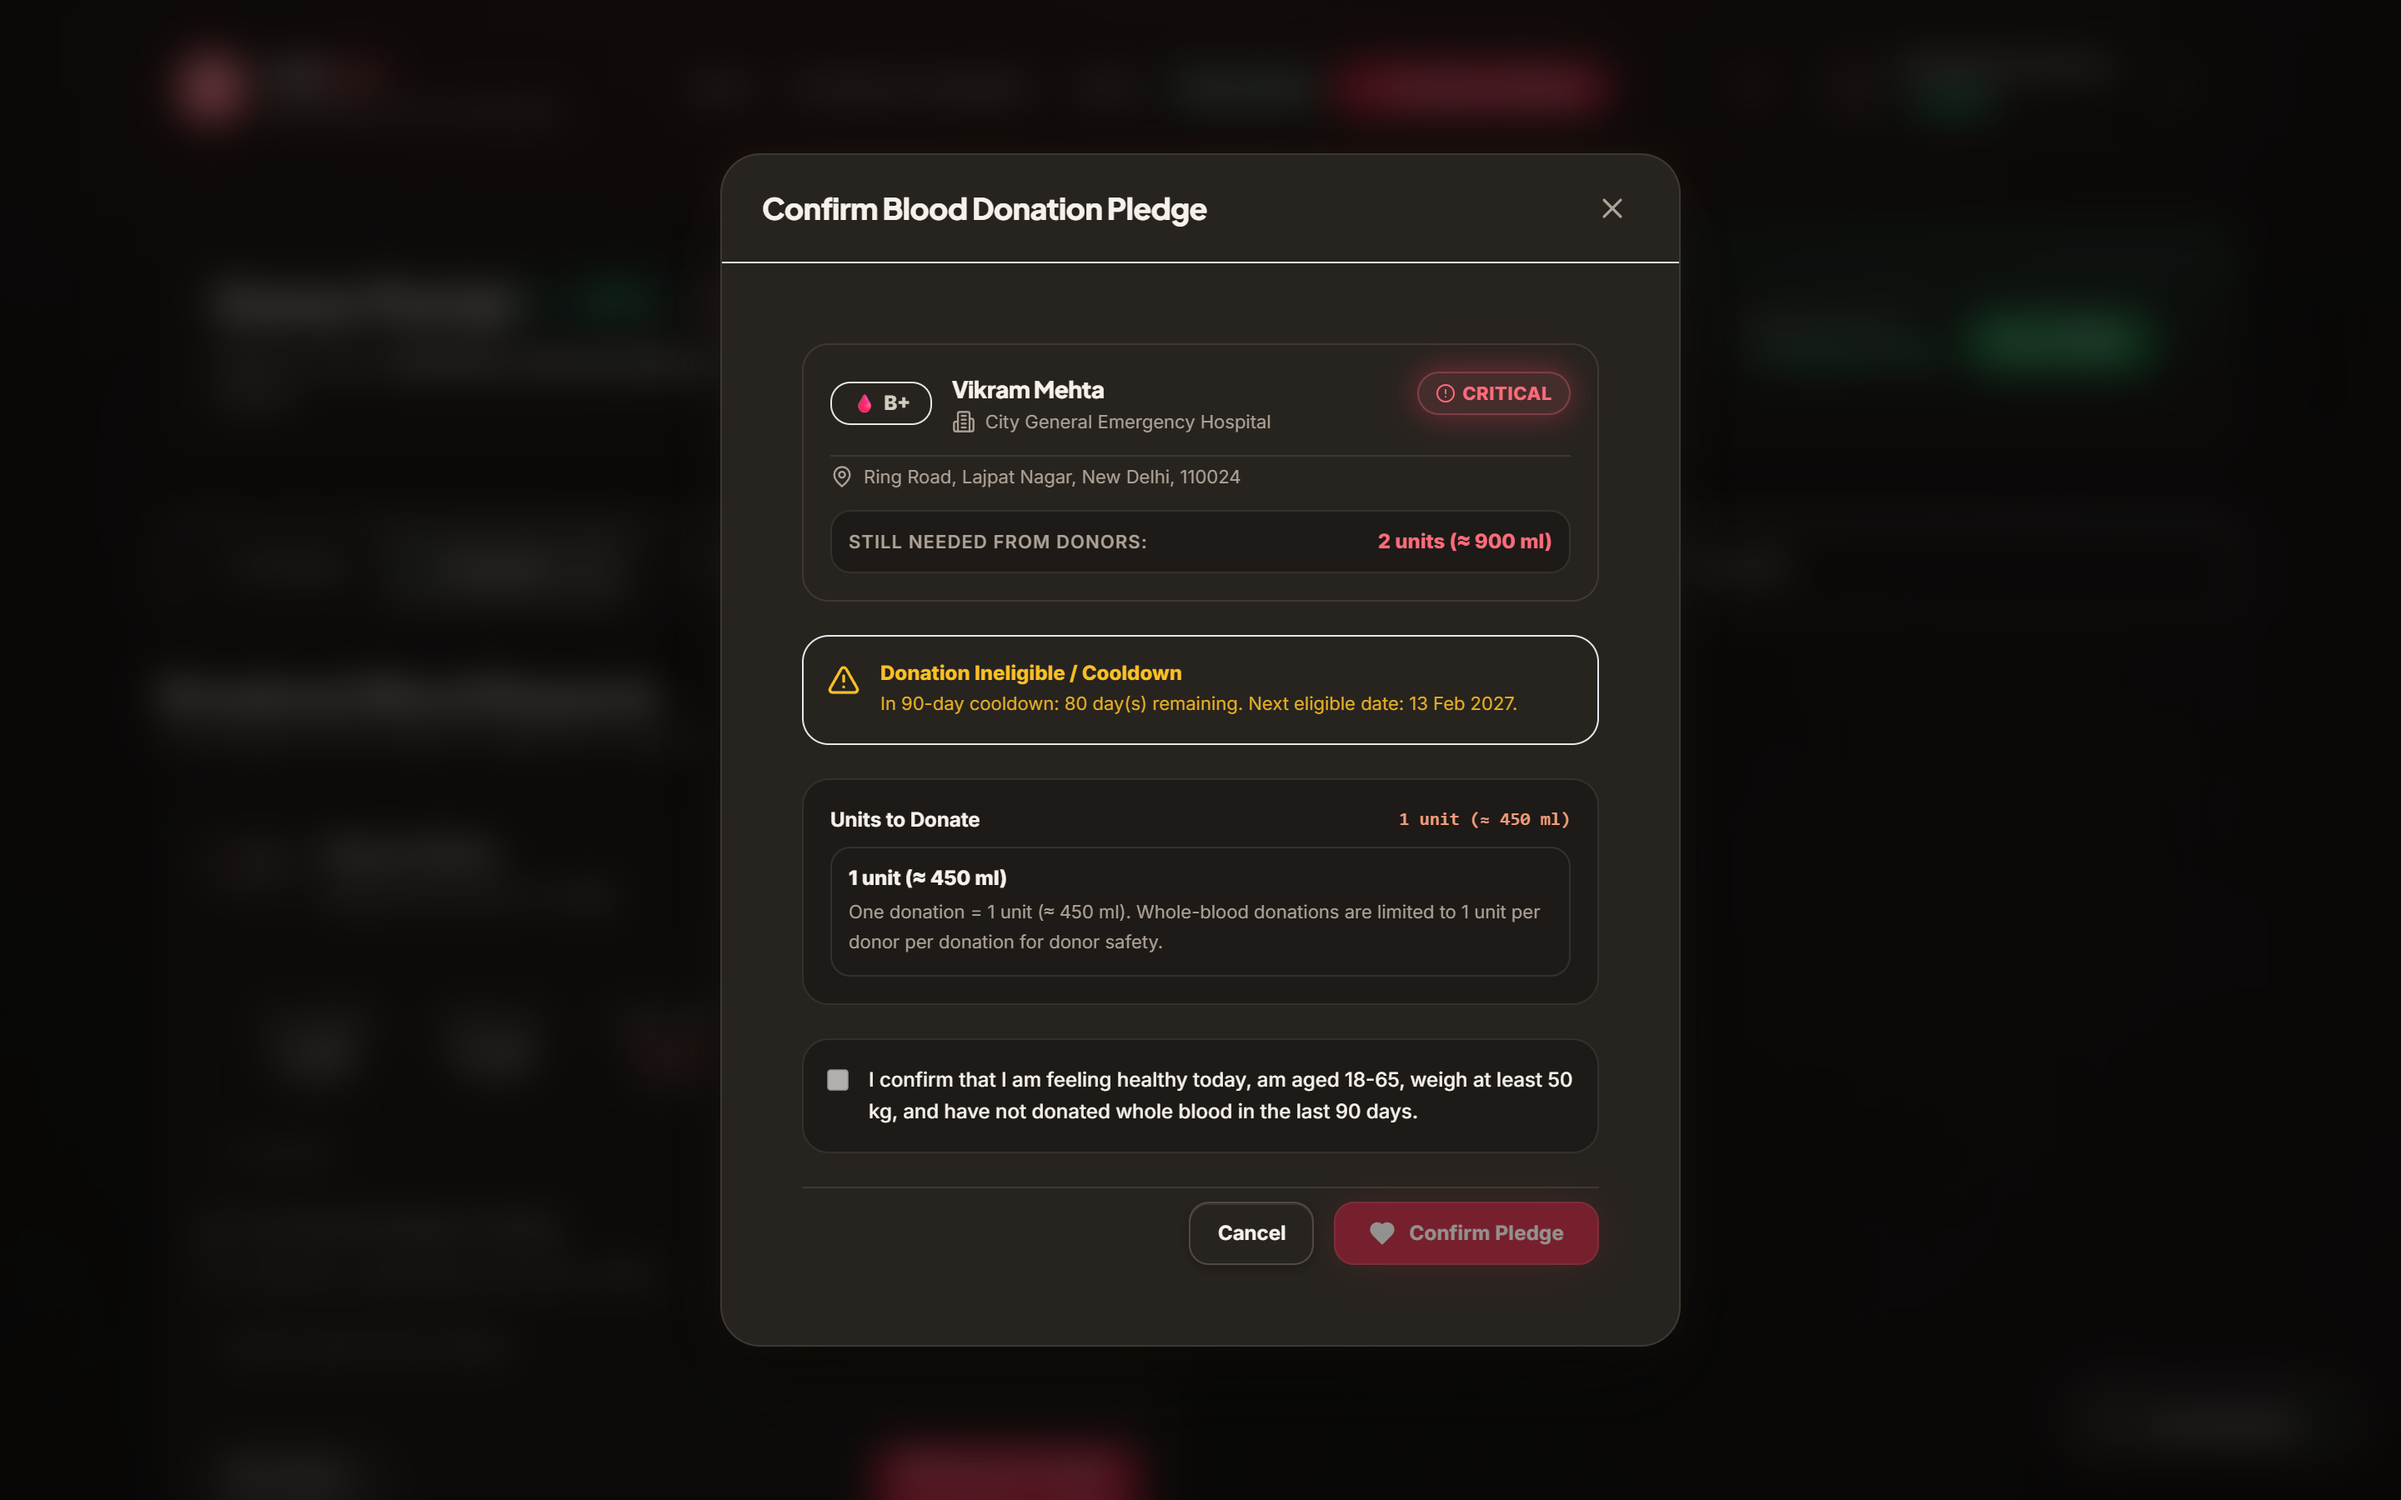
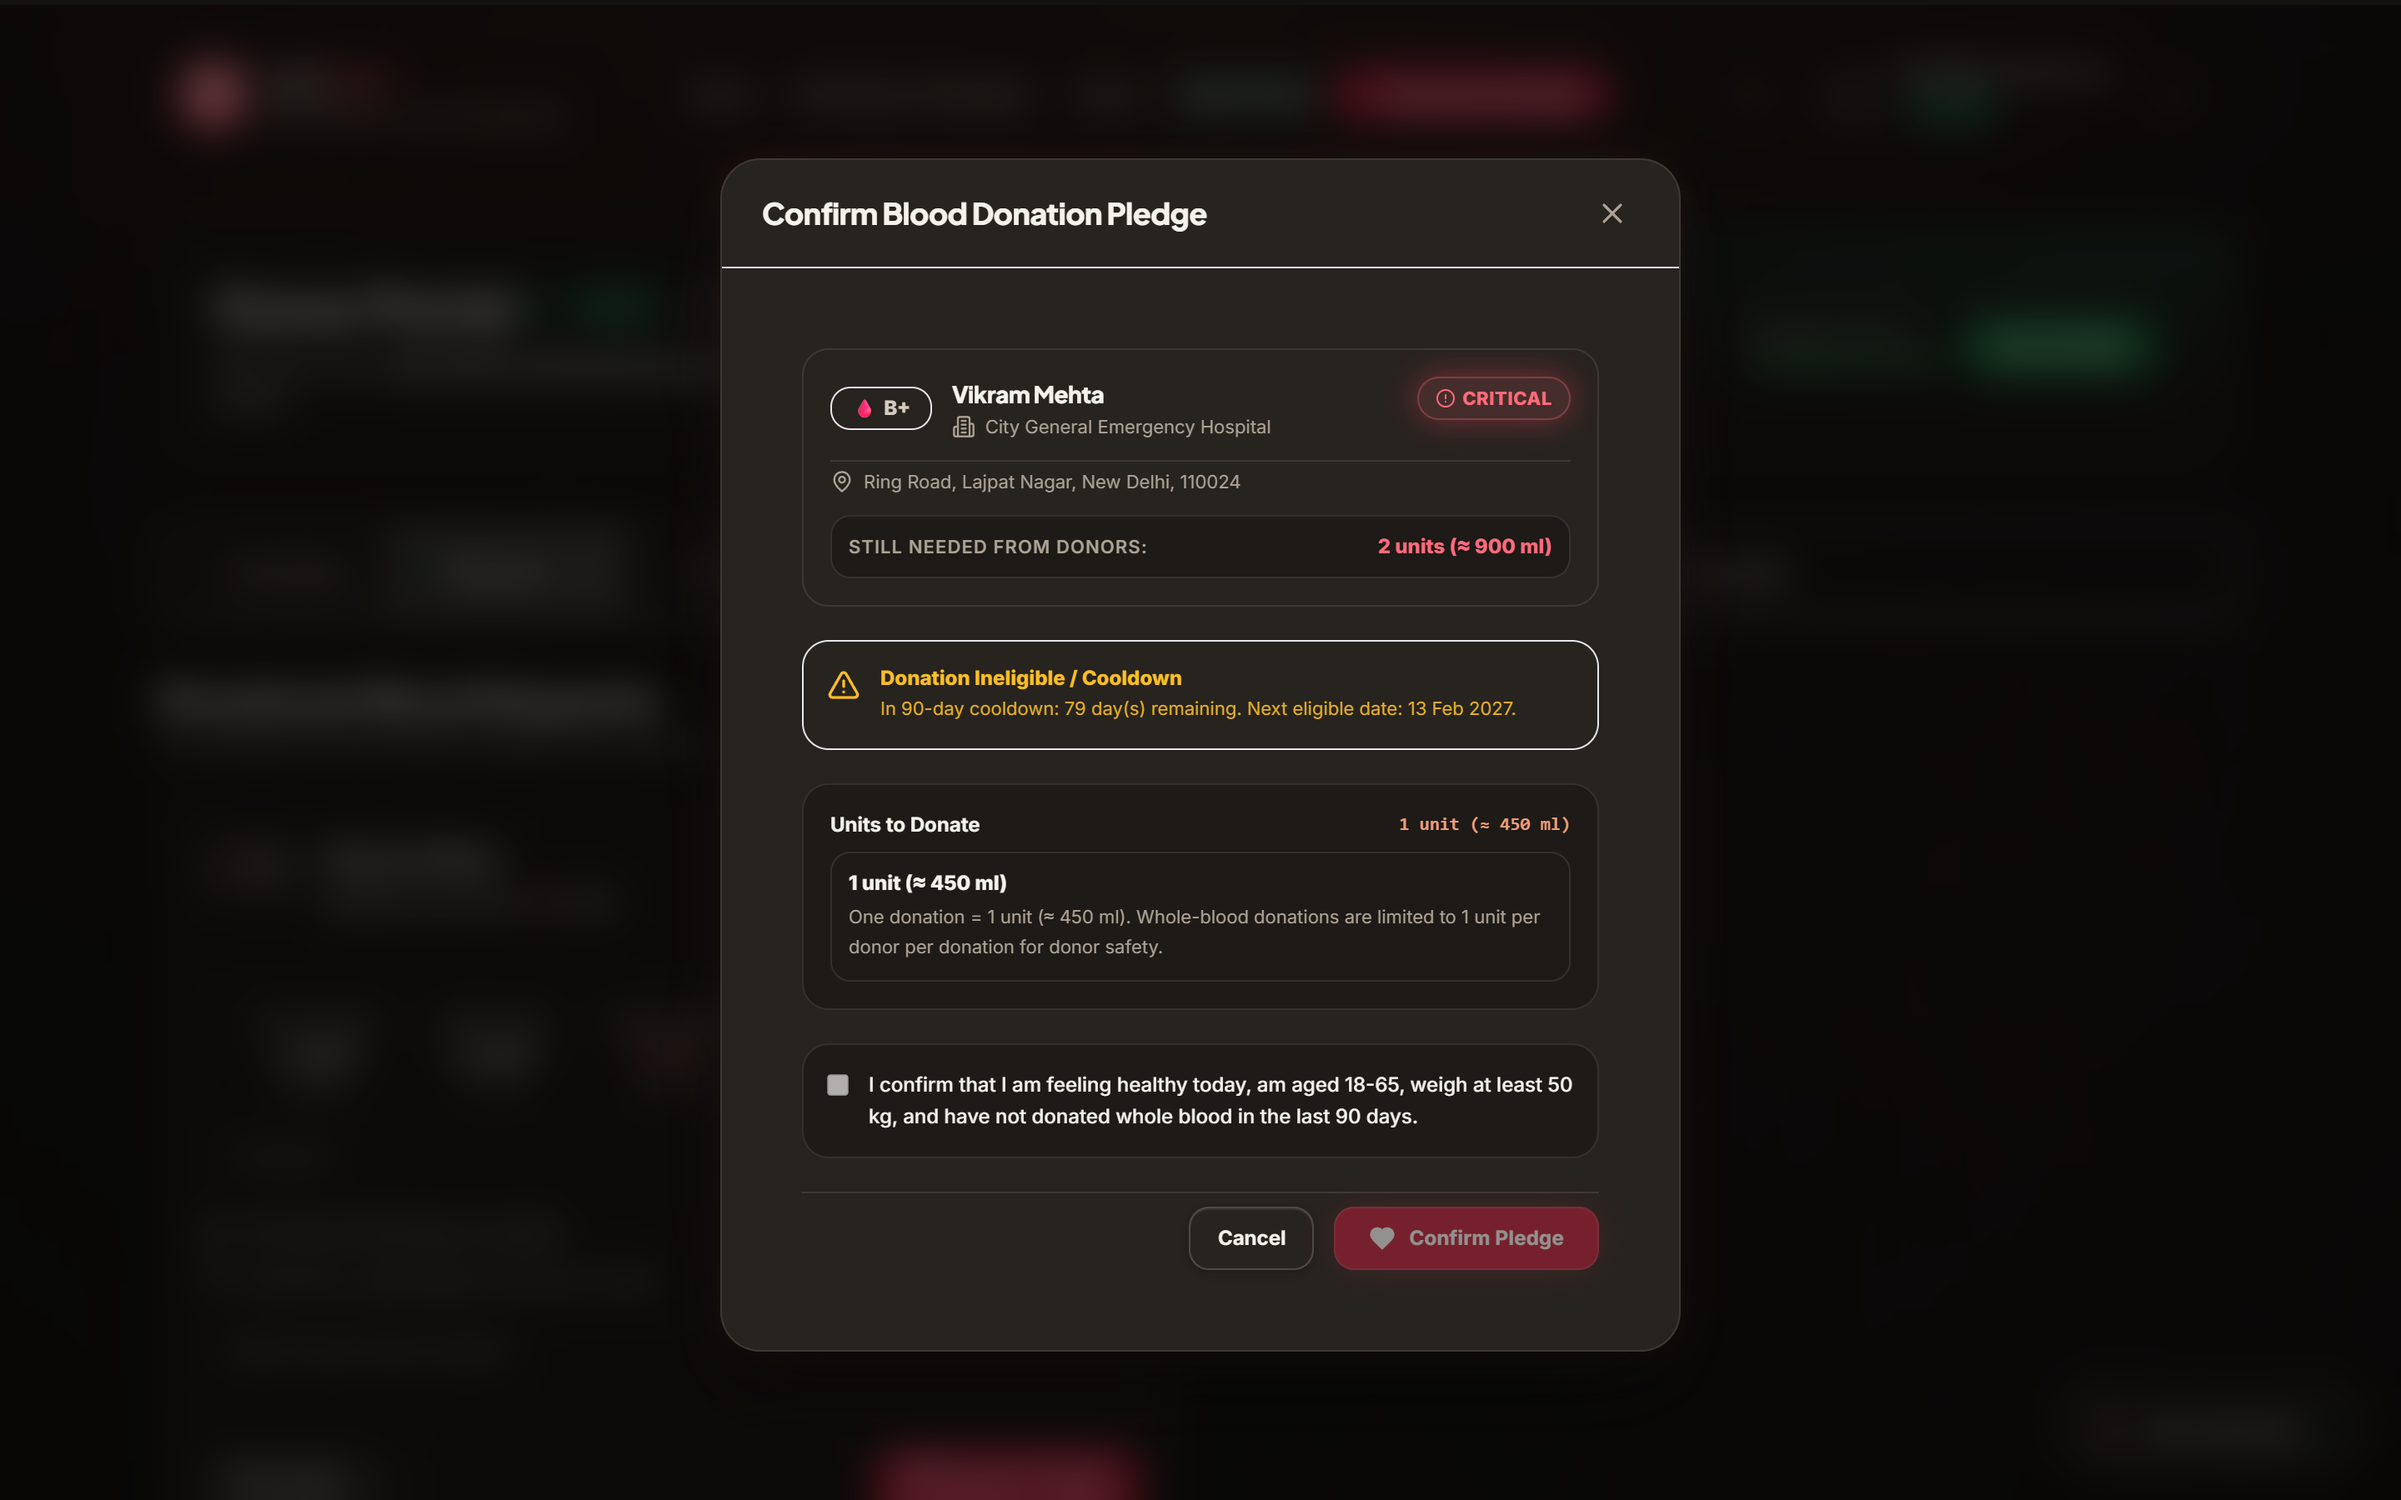
fix(docs): fix README architecture links, screenshot crops, and caption parity

diff --git a/README.md b/README.md
@@ -88,7 +88,7 @@ Interactive captures taken directly from the live running client (`1440×900` `@
       <img src="docs/screenshots/07-donor-overview-dark.png" alt="Donor Portal Overview — Dark Mode" width="100%" />
       <br />
       <strong>Donor Overview &amp; Cooldown Status (Dark)</strong><br />
-      Displays live <code>ONLINE</code> availability, <code>Last Donation: 15 Nov 2026</code> anchored to actual <code>donatedAt</code>, and computed countdown <code>Eligible again on 13 Feb 2027 (80 days left)</code>.
+      Displays live <code>ONLINE</code> availability, <code>Last Donation: 15 Nov 2026</code> anchored to actual <code>donatedAt</code>, and computed countdown <code>Eligible again on 13 Feb 2027 (79 days left)</code>.
     </td>
     <td width="50%" valign="top">
       <img src="docs/screenshots/08-donor-overview-light.png" alt="Donor Portal Overview — Light Mode" width="100%" />
@@ -122,7 +122,7 @@ Interactive captures taken directly from the live running client (`1440×900` `@
       <img src="docs/screenshots/12-track-request-dark.png" alt="Recipient Emergency Request Tracking and Smart Donor Matching" width="100%" />
       <br />
       <strong>Emergency Request Tracker &amp; Match Engine (<code>/individual/track/:id</code>)</strong><br />
-      Real-time 4-stage lifecycle progress bar (Created &rarr; Searching &rarr; Partially Fulfilled &rarr; Fulfilled), unit breakdown bar, pledged donor ledger, and the Smart Donor Matching Engine panel.
+      Real-time 4-stage lifecycle progress bar (Sent to Hospital &rarr; Under Review &rarr; Stock Check &rarr; Donors / Fulfilled), unit breakdown bar, pledged donor section, and ranked Smart Donor Matching Engine candidates (<code>100%</code>, <code>93%</code>).
     </td>
   </tr>
 </table>
@@ -175,13 +175,13 @@ Interactive captures taken directly from the live running client (`1440×900` `@
       <img src="docs/screenshots/19-admin-overview-dark.png" alt="Admin Control Center Overview" width="100%" />
       <br />
       <strong>Admin Overview &amp; Telemetry (<code>/admin/dashboard</code>)</strong><br />
-      Platform KPI cards (total donors, verified hospitals, active emergencies, total requests) and pinned latest Regional AI Narrative Insight.
+      Platform KPI cards (total donors, total requests, fulfillment rate, completed donations) and pinned latest Regional AI Narrative Insight.
     </td>
     <td width="50%" valign="top">
       <img src="docs/screenshots/20-admin-users-hospitals-dark.png" alt="Admin Registered Donors and Hospitals Directory" width="100%" />
       <br />
       <strong>Donors &amp; Hospital Verification Directory (<code>?tab=users</code>)</strong><br />
-      Account governance table tracking donor blood types, last donation records, role badges, and facility approval workflow.
+      Account governance directory listing Registered Donors (10) with blood group pills, contact phone, address, and active standby badges alongside Medical Facilities (2) verification.
     </td>
   </tr>
   <tr>
@@ -189,13 +189,13 @@ Interactive captures taken directly from the live running client (`1440×900` `@
       <img src="docs/screenshots/21-admin-requests-dark.png" alt="Admin Master Blood Requests Directory" width="100%" />
       <br />
       <strong>Master Blood Requests Directory (<code>?tab=requests</code>)</strong><br />
-      Full network audit table of active and fulfilled blood requests with blood group pills, units fulfilled, urgency chips, and hospital locations.
+      Full network audit table displaying patient/facility, blood group pills, units needed, urgency chips, status badges, location, date, and inline status controls.
     </td>
     <td width="50%" valign="top">
       <img src="docs/screenshots/18-admin-ai-insights-dark.png" alt="Admin AI Medical Logistics Insights Tab" width="100%" />
       <br />
       <strong>AI Medical Logistics Insights (<code>?tab=ai-insights</code>)</strong><br />
-      On-demand Gemini synthesis with custom trend prompt input, shortage risk analysis, and historical narrative report cards.
+      On-demand Gemini synthesis with Custom Intelligence Prompt bar, synced KPIs (Hospital Reserve Units, High Risk Blood Groups, Surplus Groups), and strategic recommendations.
     </td>
   </tr>
   <tr>
@@ -228,7 +228,7 @@ Interactive captures taken directly from the live running client (`1440×900` `@
       <img src="docs/screenshots/25-ai-assistant-donor-light.png" alt="Donor AI Assistant Cooldown Response — Light Mode" width="100%" />
       <br />
       <strong>Donor Eligibility AI Assistant (Light)</strong><br />
-      Evaluates 90-day cooldown directly from <code>donatedAt</code> (<code>15 Nov 2026</code> &rarr; next eligible <code>13 Feb 2027</code>, <code>80 days remaining</code>) and links to <code>Profile &amp; Health &rarr;</code>.
+      Evaluates 90-day cooldown directly from <code>donatedAt</code> (<code>15 Nov 2026</code> &rarr; next eligible <code>13 Feb 2027</code>, <code>79 days remaining</code>) and links to <code>Profile &amp; Health &rarr;</code>.
     </td>
   </tr>
 </table>
@@ -316,9 +316,9 @@ LifeLink features a bespoke **"Warm Nocturne + Vital Rose-Crimson + Coral Ember"
 
 ## 🏗 System Architecture
 
-![LifeLink System Architecture Diagram](docs/figures/light/Fig_3.1_System_Architecture_Diagram.png)
+![LifeLink System Architecture Diagram](docs/architecture/system-architecture-light.png)
 
-> High-resolution diagram exports: [Light (Report Print)](docs/figures/light/Fig_3.1_System_Architecture_Diagram.png) • [Dark (Mono Ink)](docs/figures/Fig_3.1_System_Architecture_Diagram.png)
+> High-resolution diagram exports: [Light (Report Print)](docs/architecture/system-architecture-light.png) • [Dark (Mono Ink)](docs/architecture/system-architecture-dark.png)
 
 ---
 
@@ -700,7 +700,7 @@ LifeLink/
 │   └── .env.example
 ├── docs/                            # Documentation & Visual Assets
 │   ├── screenshots/                 # 25 live captured dark & light portal screenshots embedded in README
-│   ├── figures/                     # System architecture diagrams (dark/light prints)
+│   ├── architecture/                # System architecture diagrams (light & dark PNG exports)
 │   ├── data-model.md                # MongoDB collections, indexes, and domain lifecycles
 │   ├── design-system.md             # Liquid Glass & Spatial UI specification
 │   └── ui-audit.md                  # Comprehensive UI inventory and audit
@@ -733,4 +733,4 @@ LifeLink/
 
 ## 📄 License
 
-This project is open-source and available under the [MIT License](LICENSE).
+This project is open-source and available under the MIT License.
